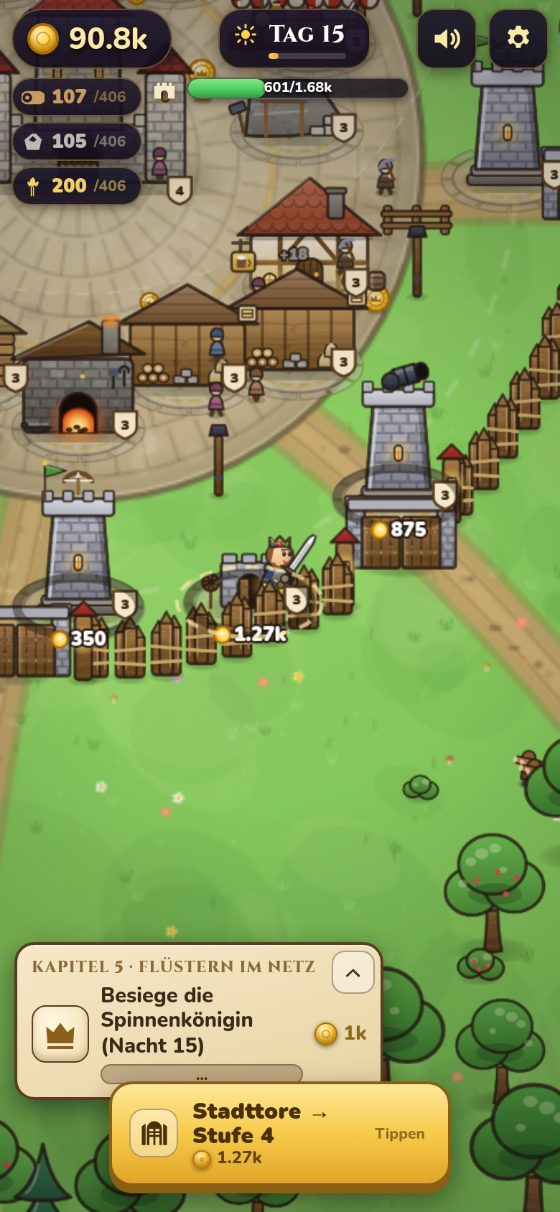
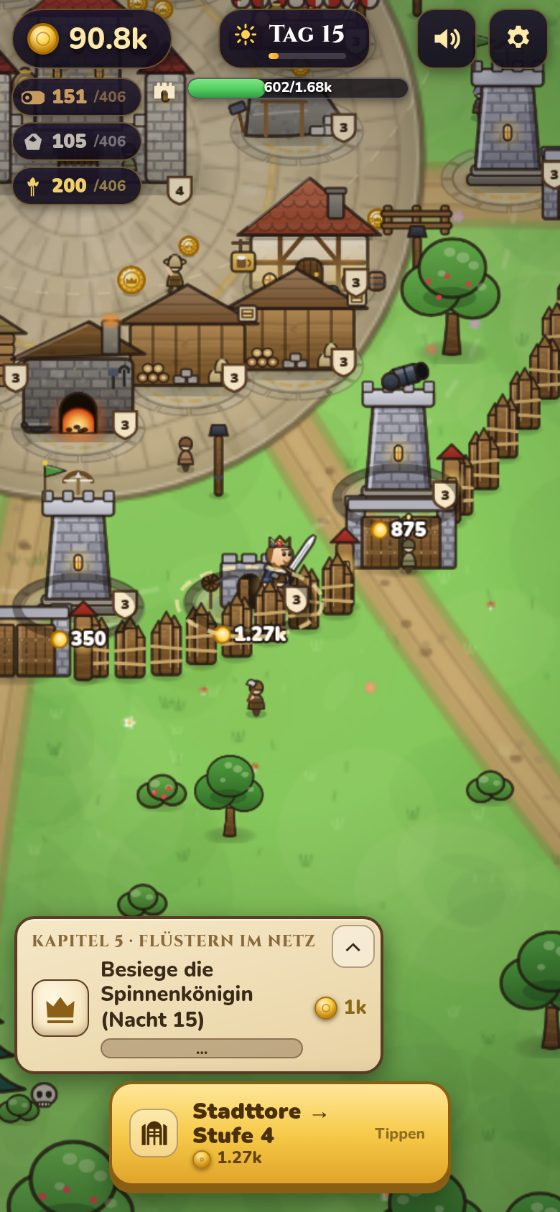
Träger bringen den Rohstoff sichtbar vom Lager zum Werk
Der zweite Abschnitt der Kette war bisher unsichtbar: das Sägewerk holte
sein Holz per Zahlenzauber aus dem Lager. Jetzt läuft ein Träger mit
Last quer durchs Dorf, sobald ein Werk einen Durchgang beginnt — steht
das Werk direkt am Lager, bleibt der Weg aus.

Bewusst reine Optik: das Gold ist im selben Moment gebucht, ein Träger
darf also jederzeit verschwinden (Neuladen, Abriss), ohne dass etwas
fehlt. Höchstens 16 gleichzeitig, damit der Vollausbau flüssig bleibt.

Claude-Session: https://claude.ai/code/session_01AgnXXhNdpeKxzSGXkkYM84

diff --git a/js/systems.js b/js/systems.js
@@ -888,6 +888,7 @@ KS.Systems = (() => {
       const gold = Math.max(1, Math.round(c.gold * (took / c.batch) * G.goldMul));
       Ent.spawnCoinBurst(G, c.pad.x + U.rand(-16, 16), c.pad.y + U.rand(12, 28), gold);
       Ent.text(G, c.pad.x, c.pad.y - 58, `+${U.fmt(gold)}`, { color: '#ffe084', size: 13, life: 0.9 });
+      sendHauler(G, c);
       // Rauch/Funken je Werk
       for (let i = 0; i < 3; i++) {
         Ent.particle(G, c.pad.x + U.rand(-10, 10), c.pad.y - U.rand(20, 40), {
@@ -895,6 +896,45 @@ KS.Systems = (() => {
           life: 1.1, size: 3.4, endSize: 8, color: 'rgba(220,215,205,0.3)',
         });
       }
+    }
+  }
+
+  // Zweiter Abschnitt der Kette: ein Träger bringt den Rohstoff sichtbar vom
+  // Lager zum Werk. Das Gold ist bereits gebucht — der Träger ist Beiwerk und
+  // darf jederzeit verschwinden (Neuladen, Abriss), ohne dass etwas fehlt.
+  function sendHauler(G, c) {
+    if (G.haulers.length >= 16) return;
+    const store = nearestStore(G, c.pad.x, c.pad.y);
+    if (!store) return;
+    const d = U.dist(store.x, store.y, c.pad.x, c.pad.y);
+    if (d < 70) return;                       // direkt daneben — kein Weg zu zeigen
+    G.haulers.push({
+      x: store.x + U.rand(-10, 10), y: store.y + U.rand(4, 16),
+      tx: c.pad.x + U.rand(-10, 10), ty: c.pad.y + U.rand(10, 22),
+      res: c.def.res, idx: (G.haulers.length + c.tier) % 6,
+      speed: U.rand(64, 76) * G.tech.workerSpeed,
+      animT: Math.random() * 10, face: 1,
+    });
+  }
+
+  function updateHaulers(G, dt) {
+    for (let i = G.haulers.length - 1; i >= 0; i--) {
+      const h = G.haulers[i];
+      h.animT += dt;
+      const dx = h.tx - h.x, dy = h.ty - h.y;
+      const d = Math.hypot(dx, dy) || 1;
+      if (d < 12) {
+        // Abgeliefert: kurzer Staubwirbel am Werk
+        Ent.particle(G, h.x, h.y - 8, {
+          vx: U.rand(-14, 14), vz: U.rand(20, 40), grav: 180,
+          life: 0.4, size: 2.6, color: CFG.RESOURCES[h.res].color,
+        });
+        G.haulers.splice(i, 1);
+        continue;
+      }
+      h.x += dx / d * h.speed * dt;
+      h.y += dy / d * h.speed * dt;
+      h.face = dx < 0 ? -1 : 1;
     }
   }
 
@@ -1486,7 +1526,7 @@ KS.Systems = (() => {
     wallSegAt, wallSegArc, wallSegCenter, damageWall, repairWallAtDawn,
     // Wirtschaft
     storeTotal, storeFree, storeAdd, storeTake, nearestStore,
-    updateWorkers, updateCrafters, syncWorkers,
+    updateWorkers, updateCrafters, updateHaulers, syncWorkers,
     // Freies Bauen
     placeableTypes, placeProblem, placeCost, placeBuilding, demolish, refundOf,
     // Techtree

diff --git a/js/game.js b/js/game.js
@@ -71,7 +71,9 @@ KS.Game = (() => {
     G.gateFlash = new Array(CFG.GATES.length).fill(0);
     G.nearPad = null; G.buildArmed = null; G.buildLock = null;
     // Wirtschaft
-    G.workers = []; G.craftT = {}; G.storeFullT = 0; G.workerSyncT = 0;
+    G.workers = [];
+    G.haulers = [];      // Träger Lager → Werk (reine Optik)
+    G.craftT = {}; G.storeFullT = 0; G.workerSyncT = 0;
     // Baumodus (freies Platzieren)
     G.placeMode = null;      // { type, def, x, y, ok, problem }
     G.wallBreachT = 0;
@@ -267,6 +269,7 @@ KS.Game = (() => {
     Sys.updateBuildings(G, dt);
     Sys.updateWorkers(G, dt);
     Sys.updateCrafters(G, dt);
+      Sys.updateHaulers(G, dt);
     updatePlaceMode();
     Sys.updateDeposit(G, dt);
     Sys.updateDepositFx(G, dt);
@@ -415,6 +418,7 @@ KS.Game = (() => {
     for (const m of G.monsters) if (!m.dead && inView(m.x, m.y, 160)) items.push({ y: m.y, kind: 'mon', m });
     for (const v of G.villagers) if (inView(v.x, v.y, 60)) items.push({ y: v.y, kind: 'vil', v });
     for (const w of G.workers) if (inView(w.x, w.y, 70)) items.push({ y: w.y, kind: 'worker', w });
+    for (const h of G.haulers) if (inView(h.x, h.y, 70)) items.push({ y: h.y, kind: 'hauler', h });
     // Stadtmauer (Pfosten & Torpfeiler, einzeln y-sortiert)
     if (G.wallMax > 0 && st.wall) {
       const wTier = st.buildings.wall.tier;
@@ -454,6 +458,8 @@ KS.Game = (() => {
         Ent.drawMonster(G, ctx, it.m);
       } else if (it.kind === 'worker') {
         drawWorker(it.w);
+      } else if (it.kind === 'hauler') {
+        drawHauler(it.h);
       } else if (it.kind === 'vil') {
         Ent.drawVillager(G, ctx, it.v);
       } else if (it.kind === 'wall') {
@@ -719,6 +725,16 @@ KS.Game = (() => {
       ctx.fillText(msg, w.x, w.y - 36);
       ctx.globalAlpha = 1;
     }
+  }
+
+  // Träger vom Lager zum Werk — trägt immer eine Last
+  function drawHauler(h) {
+    ctx.globalAlpha = 0.25;
+    ctx.fillStyle = '#1c2814';
+    ctx.beginPath(); ctx.ellipse(h.x, h.y, 8, 3.4, 0, 0, TAU); ctx.fill();
+    ctx.globalAlpha = 1;
+    const frame = Math.floor(h.animT * 6) % 2;
+    KS.Art.draw(ctx, KS.Art.worker(h.res, h.idx, frame, 'carry'), h.x, h.y, 1, 1, h.face === -1);
   }
 
   // Bau-Geist: zeigt, wo das Gebäude landen würde

diff --git a/README.md b/README.md
@@ -201,9 +201,10 @@ innerhalb der Mauern und abseits der Wege:
 | 🔨 **Steinmetz** | Meißelt Quader — langsam, aber sehr einträglich |
 | 🥖 **Mühle & Backhaus** | Mahlt Getreide zu Brot: Gold *und* mehr Steuern aus den Tavernen |
 
-Die Kette lautet immer **Sammler → Lager → Verarbeiter → Münzen**. Arbeiter wählen
-ihren Baum nach dem kürzesten Rundweg, es lohnt sich also, das Lager klug zwischen
-Hütte und Wald zu setzen. Sammler und Werke wachsen im gleichen Takt: grob ein
+Die Kette lautet immer **Sammler → Lager → Verarbeiter → Münzen**, und du siehst jeden
+Abschnitt: Arbeiter fällen draußen Bäume und schleppen die Fuhre ins Lager, Träger
+bringen den Rohstoff vom Lager zum Werk. Arbeiter wählen ihren Baum nach dem kürzesten
+Rundweg, es lohnt sich also, das Lager klug zwischen Hütte und Wald zu setzen. Sammler und Werke wachsen im gleichen Takt: grob ein
 Sammler versorgt zwei Verarbeiter. Rohstoffe zahlen außerdem die Forschung.
 
 ### 🧪 Techtree — 25 Neuerungen in drei Zweigen
